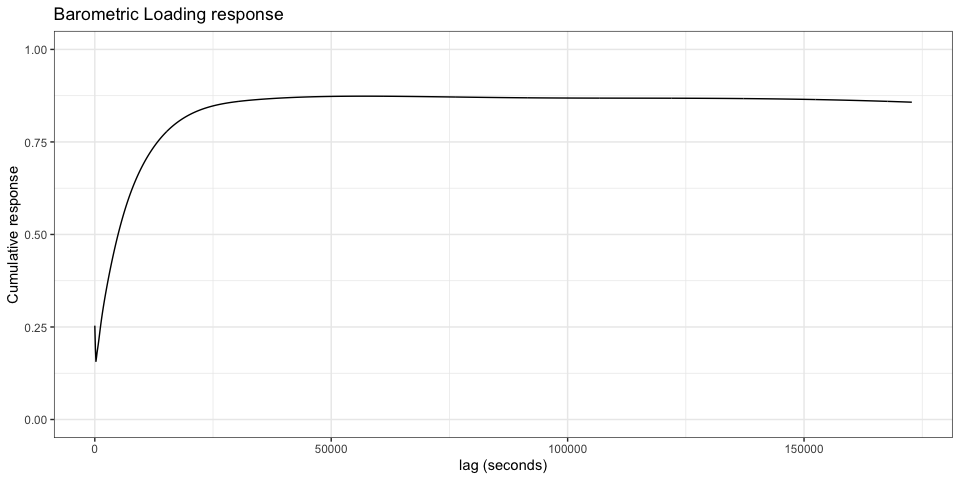
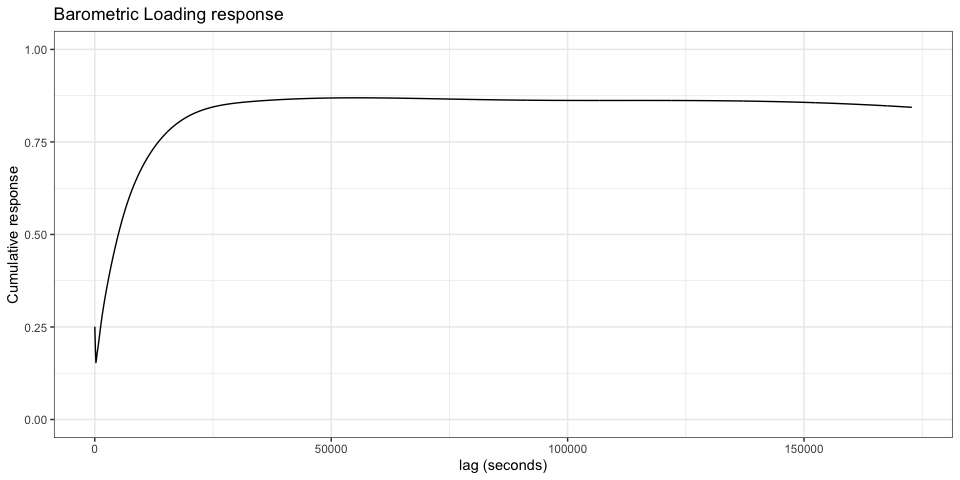
simplify examples

Changed region(s): [[0.2188, 0.1875, 0.9375, 0.25], [0.1562, 0.25, 0.1875, 0.3125], [0.1875, 0.2188, 0.2188, 0.25]]

diff --git a/README.md b/README.md
@@ -76,7 +76,6 @@ wave_groups <- na.omit(wave_groups[wave_groups$time == '1 month', ])
 wave_groups <- wave_groups[wave_groups$start > 0.5,]
 latitude  <- 34.0
 longitude <- -118.5
-elevation <- 500
 
 # create recipe 
 rec <- recipe(wl~baro+datetime, transducer) |>
@@ -84,10 +83,9 @@ rec <- recipe(wl~baro+datetime, transducer) |>
   step_earthtide(datetime,
                  latitude = latitude,
                  longitude = longitude,
-                 elevation = elevation,
                  astro_update = 1,
                  wave_groups = wave_groups) |>
-  step_ns(datetime, deg_free = 15) |>
+  step_ns(datetime, deg_free = 10) |>
   prep()
 
 input <- rec |> bake(new_data = NULL)
@@ -101,72 +99,67 @@ summary(fit <- lm(wl~., input))
 #> 
 #> Residuals:
 #>        Min         1Q     Median         3Q        Max 
-#> -1.704e-03 -2.225e-04 -1.595e-05  2.001e-04  1.434e-03 
+#> -1.483e-03 -2.351e-04 -1.957e-05  2.122e-04  1.661e-03 
 #> 
 #> Coefficients:
 #>                             Estimate Std. Error   t value Pr(>|t|)    
-#> (Intercept)                5.193e+00  2.901e-03  1790.116  < 2e-16 ***
-#> distributed_lag_baro_0    -1.947e-01  1.065e-02   -18.276  < 2e-16 ***
-#> distributed_lag_baro_1     2.404e-02  8.116e-03     2.962 0.003061 ** 
-#> distributed_lag_baro_2     7.380e-03  4.861e-03     1.518 0.129010    
-#> distributed_lag_baro_4     1.391e-02  2.288e-03     6.078 1.23e-09 ***
-#> distributed_lag_baro_7     9.552e-03  1.133e-03     8.433  < 2e-16 ***
-#> distributed_lag_baro_12    7.935e-03  5.078e-04    15.625  < 2e-16 ***
-#> distributed_lag_baro_22    6.132e-03  2.163e-04    28.354  < 2e-16 ***
-#> distributed_lag_baro_37    3.510e-03  8.935e-05    39.278  < 2e-16 ***
-#> distributed_lag_baro_63    1.592e-03  3.779e-05    42.143  < 2e-16 ***
-#> distributed_lag_baro_106   2.312e-04  1.665e-05    13.886  < 2e-16 ***
-#> distributed_lag_baro_179   5.677e-05  7.512e-06     7.558 4.20e-14 ***
-#> distributed_lag_baro_302  -4.676e-05  4.107e-06   -11.385  < 2e-16 ***
-#> distributed_lag_baro_509  -7.841e-02  1.399e-03   -56.033  < 2e-16 ***
-#> distributed_lag_baro_856   2.035e-01  3.630e-03    56.046  < 2e-16 ***
-#> distributed_lag_baro_1440 -1.251e-01  2.231e-03   -56.078  < 2e-16 ***
-#> earthtide_cos_1           -1.672e-05  3.104e-06    -5.386 7.24e-08 ***
-#> earthtide_sin_1           -2.621e-06  3.135e-06    -0.836 0.403216    
-#> earthtide_cos_2            8.041e-05  3.211e-06    25.041  < 2e-16 ***
-#> earthtide_sin_2           -4.756e-05  3.239e-06   -14.684  < 2e-16 ***
-#> earthtide_cos_3            1.838e-05  2.747e-06     6.692 2.23e-11 ***
-#> earthtide_sin_3           -2.210e-05  2.683e-06    -8.239  < 2e-16 ***
-#> earthtide_cos_4            2.321e-04  7.297e-06    31.805  < 2e-16 ***
-#> earthtide_sin_4            1.630e-05  6.347e-06     2.568 0.010226 *  
-#> earthtide_cos_5           -6.898e-06  3.003e-06    -2.297 0.021617 *  
-#> earthtide_sin_5           -1.605e-05  3.004e-06    -5.341 9.32e-08 ***
-#> earthtide_cos_6            1.615e-05  3.432e-06     4.705 2.55e-06 ***
-#> earthtide_sin_6           -1.245e-05  3.445e-06    -3.615 0.000301 ***
-#> earthtide_cos_7            3.086e-06  1.907e-06     1.618 0.105654    
-#> earthtide_sin_7           -1.594e-05  1.909e-06    -8.348  < 2e-16 ***
-#> earthtide_cos_8            5.805e-05  2.366e-06    24.535  < 2e-16 ***
-#> earthtide_sin_8           -4.849e-05  2.367e-06   -20.488  < 2e-16 ***
-#> earthtide_cos_9            3.043e-04  2.490e-06   122.224  < 2e-16 ***
-#> earthtide_sin_9           -2.929e-04  2.478e-06  -118.172  < 2e-16 ***
-#> earthtide_cos_10          -8.925e-06  3.062e-06    -2.915 0.003565 ** 
-#> earthtide_sin_10           5.301e-05  3.054e-06    17.357  < 2e-16 ***
-#> earthtide_cos_11           2.210e-04  5.982e-06    36.938  < 2e-16 ***
-#> earthtide_sin_11          -7.191e-05  5.399e-06   -13.319  < 2e-16 ***
-#> earthtide_cos_12           1.078e-06  2.338e-06     0.461 0.644709    
-#> earthtide_sin_12          -1.086e-06  2.342e-06    -0.464 0.642922    
-#> datetime_ns_01            -2.149e-02  5.417e-05  -396.716  < 2e-16 ***
-#> datetime_ns_02            -3.292e-02  6.895e-05  -477.473  < 2e-16 ***
-#> datetime_ns_03            -3.858e-02  6.018e-05  -640.965  < 2e-16 ***
-#> datetime_ns_04            -5.205e-02  7.135e-05  -729.510  < 2e-16 ***
-#> datetime_ns_05            -6.417e-02  6.298e-05 -1018.779  < 2e-16 ***
-#> datetime_ns_06            -7.597e-02  6.574e-05 -1155.742  < 2e-16 ***
-#> datetime_ns_07            -8.600e-02  6.383e-05 -1347.281  < 2e-16 ***
-#> datetime_ns_08            -9.567e-02  6.486e-05 -1475.032  < 2e-16 ***
-#> datetime_ns_09            -1.074e-01  6.477e-05 -1658.190  < 2e-16 ***
-#> datetime_ns_10            -1.188e-01  6.598e-05 -1800.144  < 2e-16 ***
-#> datetime_ns_11            -1.294e-01  6.432e-05 -2011.838  < 2e-16 ***
-#> datetime_ns_12            -1.376e-01  6.325e-05 -2175.965  < 2e-16 ***
-#> datetime_ns_13            -1.453e-01  4.279e-05 -3395.285  < 2e-16 ***
-#> datetime_ns_14            -1.692e-01  1.362e-04 -1242.976  < 2e-16 ***
-#> datetime_ns_15            -1.532e-01  2.308e-05 -6640.503  < 2e-16 ***
+#> (Intercept)                5.321e+00  2.253e-03  2361.583  < 2e-16 ***
+#> distributed_lag_baro_0    -1.940e-01  1.153e-02   -16.823  < 2e-16 ***
+#> distributed_lag_baro_1     2.382e-02  8.787e-03     2.710  0.00672 ** 
+#> distributed_lag_baro_2     7.708e-03  5.264e-03     1.464  0.14308    
+#> distributed_lag_baro_4     1.379e-02  2.477e-03     5.566 2.63e-08 ***
+#> distributed_lag_baro_7     9.756e-03  1.226e-03     7.955 1.84e-15 ***
+#> distributed_lag_baro_12    7.818e-03  5.498e-04    14.218  < 2e-16 ***
+#> distributed_lag_baro_22    6.230e-03  2.341e-04    26.609  < 2e-16 ***
+#> distributed_lag_baro_37    3.435e-03  9.674e-05    35.510  < 2e-16 ***
+#> distributed_lag_baro_63    1.633e-03  4.091e-05    39.918  < 2e-16 ***
+#> distributed_lag_baro_106   1.946e-04  1.802e-05    10.800  < 2e-16 ***
+#> distributed_lag_baro_179   6.958e-05  8.130e-06     8.558  < 2e-16 ***
+#> distributed_lag_baro_302  -6.846e-05  4.434e-06   -15.441  < 2e-16 ***
+#> distributed_lag_baro_509  -7.734e-02  1.515e-03   -51.058  < 2e-16 ***
+#> distributed_lag_baro_856   2.007e-01  3.929e-03    51.080  < 2e-16 ***
+#> distributed_lag_baro_1440 -1.235e-01  2.415e-03   -51.131  < 2e-16 ***
+#> earthtide_cos_1           -9.055e-06  3.359e-06    -2.696  0.00702 ** 
+#> earthtide_sin_1            4.111e-06  3.390e-06     1.213  0.22524    
+#> earthtide_cos_2            8.808e-05  3.475e-06    25.349  < 2e-16 ***
+#> earthtide_sin_2           -3.562e-05  3.502e-06   -10.173  < 2e-16 ***
+#> earthtide_cos_3            2.843e-05  2.970e-06     9.573  < 2e-16 ***
+#> earthtide_sin_3           -3.611e-05  2.896e-06   -12.467  < 2e-16 ***
+#> earthtide_cos_4            1.940e-04  7.839e-06    24.750  < 2e-16 ***
+#> earthtide_sin_4            4.292e-05  6.851e-06     6.265 3.78e-10 ***
+#> earthtide_cos_5           -4.412e-06  3.250e-06    -1.357  0.17464    
+#> earthtide_sin_5           -1.397e-05  3.251e-06    -4.298 1.73e-05 ***
+#> earthtide_cos_6            1.090e-05  3.714e-06     2.934  0.00335 ** 
+#> earthtide_sin_6           -8.238e-06  3.728e-06    -2.210  0.02712 *  
+#> earthtide_cos_7            4.002e-06  2.065e-06     1.938  0.05263 .  
+#> earthtide_sin_7           -1.588e-05  2.067e-06    -7.684 1.59e-14 ***
+#> earthtide_cos_8            5.720e-05  2.562e-06    22.331  < 2e-16 ***
+#> earthtide_sin_8           -4.668e-05  2.562e-06   -18.219  < 2e-16 ***
+#> earthtide_cos_9            3.009e-04  2.695e-06   111.630  < 2e-16 ***
+#> earthtide_sin_9           -2.924e-04  2.683e-06  -109.003  < 2e-16 ***
+#> earthtide_cos_10          -6.168e-06  3.315e-06    -1.860  0.06285 .  
+#> earthtide_sin_10           5.686e-05  3.306e-06    17.198  < 2e-16 ***
+#> earthtide_cos_11           2.369e-04  6.471e-06    36.605  < 2e-16 ***
+#> earthtide_sin_11          -5.476e-05  5.819e-06    -9.410  < 2e-16 ***
+#> earthtide_cos_12           2.122e-06  2.531e-06     0.838  0.40194    
+#> earthtide_sin_12          -2.205e-06  2.536e-06    -0.870  0.38448    
+#> datetime_ns_01            -2.965e-02  2.892e-05 -1025.095  < 2e-16 ***
+#> datetime_ns_02            -4.064e-02  3.792e-05 -1071.627  < 2e-16 ***
+#> datetime_ns_03            -6.178e-02  3.313e-05 -1864.753  < 2e-16 ***
+#> datetime_ns_04            -7.808e-02  3.445e-05 -2266.602  < 2e-16 ***
+#> datetime_ns_05            -9.233e-02  3.316e-05 -2784.028  < 2e-16 ***
+#> datetime_ns_06            -1.100e-01  3.553e-05 -3095.275  < 2e-16 ***
+#> datetime_ns_07            -1.264e-01  3.354e-05 -3768.390  < 2e-16 ***
+#> datetime_ns_08            -1.355e-01  2.239e-05 -6053.491  < 2e-16 ***
+#> datetime_ns_09            -1.639e-01  7.195e-05 -2278.361  < 2e-16 ***
+#> datetime_ns_10            -1.499e-01  1.563e-05 -9587.262  < 2e-16 ***
 #> ---
 #> Signif. codes:  0 '***' 0.001 '**' 0.01 '*' 0.05 '.' 0.1 ' ' 1
 #> 
-#> Residual standard error: 0.0003291 on 35226 degrees of freedom
+#> Residual standard error: 0.0003564 on 35231 degrees of freedom
 #>   (1440 observations deleted due to missingness)
 #> Multiple R-squared:  0.9999, Adjusted R-squared:  0.9999 
-#> F-statistic: 1.135e+07 on 54 and 35226 DF,  p-value: < 2.2e-16
+#> F-statistic: 1.067e+07 on 49 and 35231 DF,  p-value: < 2.2e-16
 ```
 
 ## Decomposition
